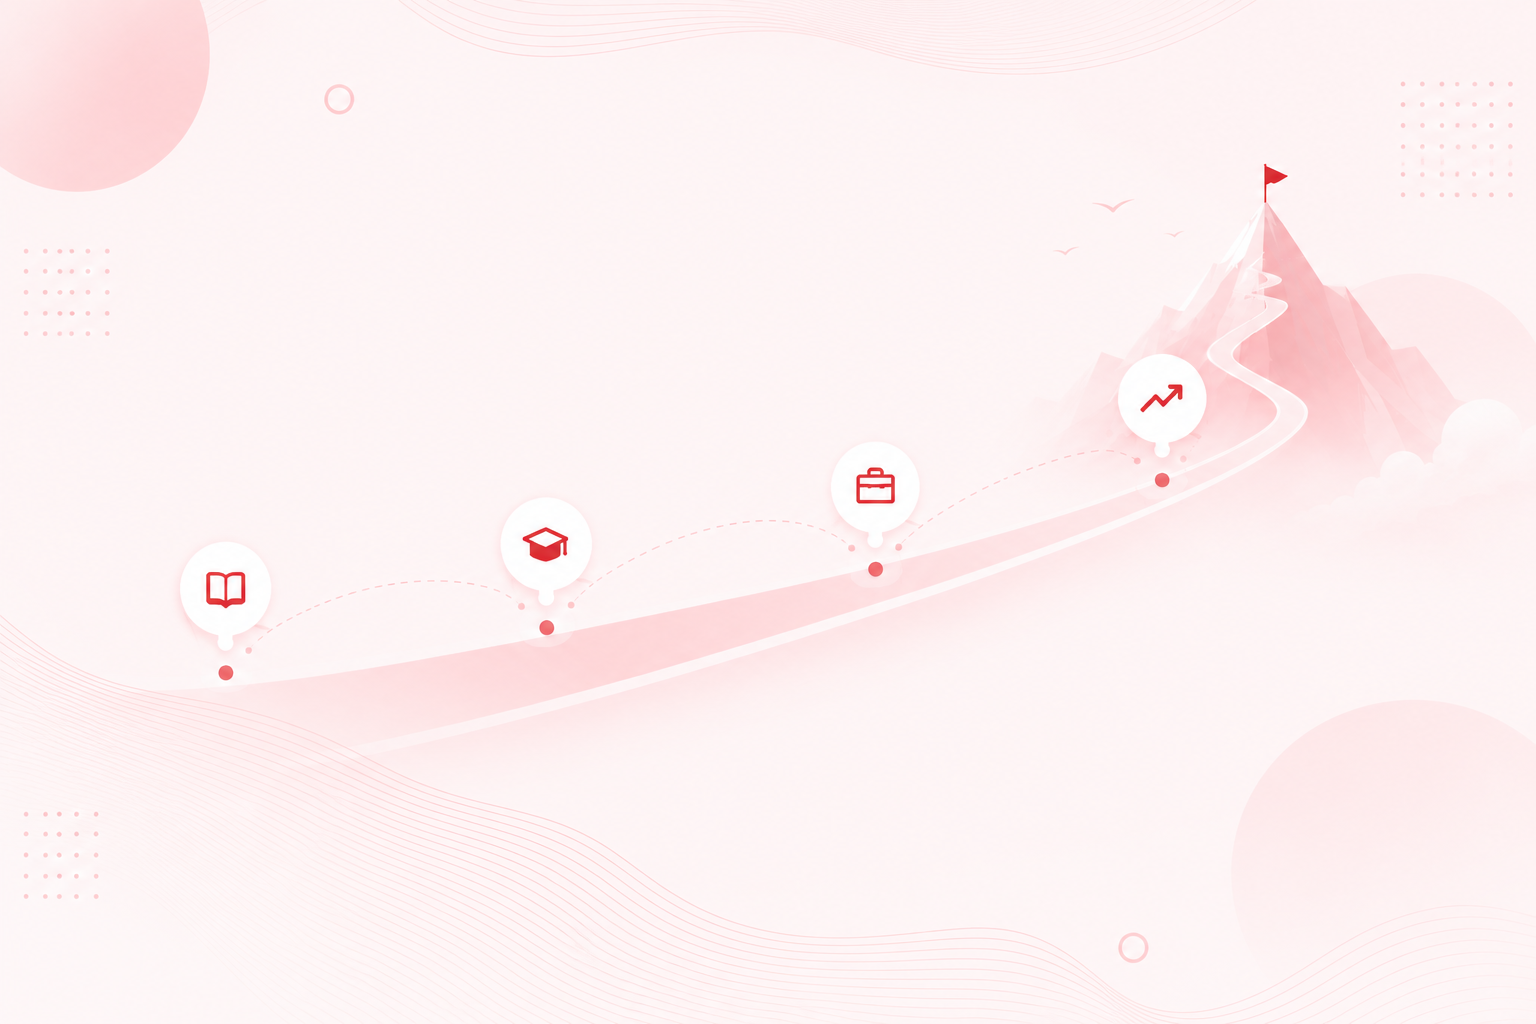
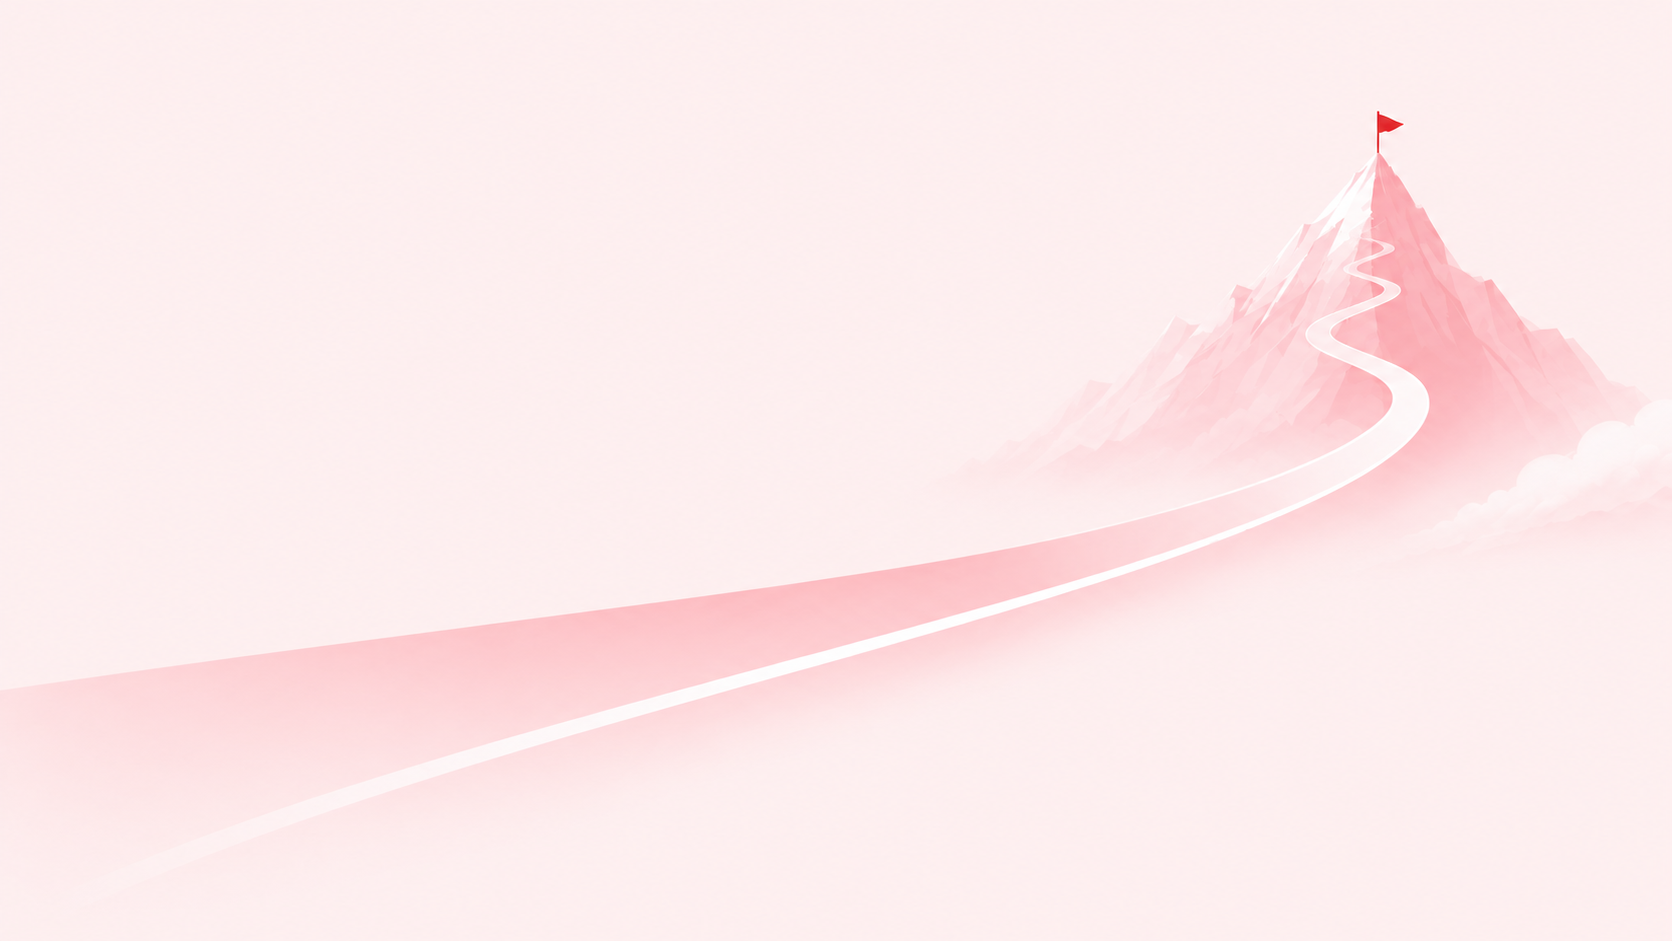
feat(CareerPathwayHub): implement MilestoneCard component and update layout

diff --git a/apps/web/components/blog/CareerPathwayHub.tsx b/apps/web/components/blog/CareerPathwayHub.tsx
@@ -6,135 +6,140 @@ import { BookOpen, GraduationCap, Briefcase, TrendingUp, ArrowRight } from 'luci
 const pathways = [
   {
     icon: BookOpen,
+    step: 'STEP 01',
     title: 'Study',
     description: 'Choose from diverse programs and build your academic foundation',
     details: ['Select University', 'Apply Programs', 'Enroll & Start'],
   },
   {
     icon: GraduationCap,
+    step: 'STEP 02',
     title: 'Graduate',
     description: 'Complete your degree and gain valuable experience',
     details: ['Complete Coursework', 'Internships', 'Final Project'],
   },
   {
     icon: Briefcase,
+    step: 'STEP 03',
     title: 'Job',
     description: 'Secure a position with leading companies',
     details: ['Job Search', 'Interview', 'Offer'],
   },
   {
     icon: TrendingUp,
+    step: 'STEP 04',
     title: 'Career Growth',
     description: 'Advance your career with promotions and new opportunities',
     details: ['Professional Dev', 'Leadership', 'Success'],
   },
 ]
 
+function MilestoneCard({ pathway, index }: { pathway: typeof pathways[0]; index: number }) {
+  const Icon = pathway.icon
+
+  return (
+    <motion.div
+      initial={{ opacity: 0, y: 24 }}
+      whileInView={{ opacity: 1, y: 0 }}
+      viewport={{ once: true }}
+      transition={{ delay: index * 0.1, duration: 0.5, ease: 'easeOut' }}
+      className="flex flex-col items-center"
+    >
+      {/* ICON */}
+      <div className="h-10 w-10 rounded-full bg-white shadow-[0_8px_20px_rgba(0,0,0,0.08)] flex items-center justify-center mb-4">
+        <Icon className="h-5 w-5 text-[#C41E3A]" strokeWidth={2} />
+      </div>
+
+      {/* CONNECTOR LINE */}
+      <div className="w-px h-5 bg-[#E5E7EB] mb-4" />
+
+      {/* CARD */}
+      <motion.div
+        whileHover={{ y: -6, scale: 1.02 }}
+        transition={{ duration: 0.2, ease: 'easeOut' }}
+        className="group w-full max-w-[240px]"
+      >
+        <div className="h-[320px] rounded-[24px] bg-white border border-[#F1F5F9] shadow-[0_10px_30px_rgba(15,23,42,0.06)] p-6 transition-shadow duration-300 group-hover:shadow-[0_20px_50px_rgba(196,30,58,0.12)] overflow-hidden flex flex-col">
+          {/* STEP BADGE */}
+          <div className="mb-3 inline-flex items-center rounded-full bg-[#FEECEF] px-3 py-1 self-start">
+            <span className="text-[11px] font-bold tracking-[0.12em] text-[#C41E3A]">
+              {pathway.step}
+            </span>
+          </div>
+
+          {/* TITLE */}
+          <h3 className="text-[20px] font-bold leading-tight tracking-tight text-[#0F172A] mb-2">
+            {pathway.title}
+          </h3>
+
+          {/* ACCENT LINE */}
+          <div className="w-10 h-1 rounded-full bg-[#C41E3A] mb-3" />
+
+          {/* DESCRIPTION */}
+          <p className="text-sm leading-6 text-[#64748B] mb-3">
+            {pathway.description}
+          </p>
+
+          {/* BULLET LIST */}
+          <div className="space-y-2 mt-auto">
+            {pathway.details.map((detail, i) => (
+              <div key={i} className="flex items-center gap-2">
+                <div className="w-1.5 h-1.5 rounded-full bg-[#C41E3A] flex-shrink-0" />
+                <span className="text-sm text-[#475569]">{detail}</span>
+              </div>
+            ))}
+          </div>
+        </div>
+      </motion.div>
+    </motion.div>
+  )
+}
+
 export function CareerPathwayHub() {
   return (
-    <section className="relative border-y border-[#E5E7EB] bg-[#FEF2F2] py-24 lg:py-32 overflow-hidden">
-      <div className="absolute inset-0">
+    <section className="relative border-y border-[#E5E7EB] bg-[#FEF2F2]">
+      {/* ROADMAP IMAGE - BACKGROUND ONLY */}
+      <div className="absolute inset-0 flex items-center justify-center overflow-hidden pointer-events-none">
         <img
           src="/images/career-pathway-bg.png"
-          alt="Career Pathway Background"
-          className="h-full w-full object-cover"
+          className="w-full h-full object-contain opacity-30"
+          alt=""
         />
       </div>
-      <div className="absolute inset-0 bg-white/40 backdrop-blur-[1px]" />
-      <div className="relative z-10 mx-auto max-w-7xl px-4 sm:px-6 lg:px-8">
+
+      <div className="relative z-10 mx-auto max-w-7xl px-4 sm:px-6 lg:px-8 pt-12 pb-16">
         {/* HEADER */}
         <motion.div
           initial={{ opacity: 0, y: 20 }}
           whileInView={{ opacity: 1, y: 0 }}
-          viewport={{ once: true, margin: '-100px' }}
-          className="mb-20 text-center"
+          viewport={{ once: true }}
+          className="mb-10 text-center"
         >
-          <h2 className="mb-4 text-4xl font-bold text-[#111827] lg:text-5xl">Career Pathway Hub</h2>
-          <p className="mx-auto max-w-2xl text-xl text-[#6B7280]">
+          <h2 className="text-5xl lg:text-6xl font-bold tracking-tight leading-none text-[#0F172A]">
+            Career <span className="text-[#C41E3A]">Pathway</span> Hub
+          </h2>
+          <p className="mt-4 text-lg text-[#64748B]">
             From student to career professional in four strategic steps
           </p>
         </motion.div>
 
-        {/* PATHWAY TIMELINE */}
-        <div className="relative">
-          {/* CONNECTION LINE */}
-          <div className="absolute left-0 right-0 top-24 hidden h-px bg-[#C41E3A] opacity-30 lg:block" />
-
-          <motion.div
-            initial={{ opacity: 0 }}
-            whileInView={{ opacity: 1 }}
-            viewport={{ once: true, margin: '-100px' }}
-            transition={{ staggerChildren: 0.2 }}
-            className="relative z-10 grid grid-cols-1 gap-8 md:grid-cols-2 lg:grid-cols-4"
-          >
-            {pathways.map((pathway, index) => {
-              const Icon = pathway.icon
-              return (
-                <motion.div
-                  key={index}
-                  initial={{ opacity: 0, y: 20 }}
-                  whileInView={{ opacity: 1, y: 0 }}
-                  viewport={{ once: true }}
-                  transition={{ delay: index * 0.1 }}
-                  whileHover={{ y: -4 }}
-                  className="relative"
-                >
-                  {/* STEP INDICATOR */}
-                  <div className="absolute -top-16 left-1/2 -translate-x-1/2 transform">
-                    <div className="flex h-16 w-16 items-center justify-center rounded-full bg-[#C41E3A] text-lg font-bold text-white shadow-[0_10px_30px_rgba(196,30,58,0.18)] transition-shadow">
-                      {index + 1}
-                    </div>
-                  </div>
-
-                  {/* CARD */}
-                  <div className="h-full rounded-xl border border-[#E5E7EB] bg-white p-8 pt-16 transition-all duration-300 hover:shadow-[0_10px_30px_rgba(0,0,0,0.06)]">
-                    <div className="mb-6 flex justify-center">
-                      <div className="flex h-16 w-16 items-center justify-center rounded-lg border border-[#E5E7EB] bg-[#FEF2F2]">
-                        <Icon className="h-8 w-8 text-[#C41E3A]" />
-                      </div>
-                    </div>
-
-                    <h3 className="mb-3 text-center text-2xl font-bold text-[#111827]">
-                      {pathway.title}
-                    </h3>
-                    <p className="mb-6 text-center text-base leading-relaxed text-[#6B7280]">
-                      {pathway.description}
-                    </p>
-
-                    {/* DETAILS */}
-                    <div className="space-y-2">
-                      {pathway.details.map((detail, i) => (
-                        <div key={i} className="flex items-center gap-3 text-sm text-[#6B7280]">
-                          <div className="h-2 w-2 rounded-full bg-[#C41E3A]" />
-                          <span>{detail}</span>
-                        </div>
-                      ))}
-                    </div>
-                  </div>
-
-                  {/* ARROW */}
-                  {index < pathways.length - 1 && (
-                    <div className="absolute -right-6 top-24 hidden items-center justify-center lg:flex">
-                      <ArrowRight className="h-6 w-6 text-[#C41E3A]" />
-                    </div>
-                  )}
-                </motion.div>
-              )
-            })}
-          </motion.div>
+        {/* CARDS GRID */}
+        <div className="grid grid-cols-1 sm:grid-cols-2 lg:grid-cols-4 gap-8 justify-items-center max-w-6xl mx-auto">
+          {pathways.map((pathway, index) => (
+            <MilestoneCard key={index} pathway={pathway} index={index} />
+          ))}
         </div>
 
         {/* CTA */}
         <motion.div
           initial={{ opacity: 0, y: 20 }}
           whileInView={{ opacity: 1, y: 0 }}
-          viewport={{ once: true, margin: '-50px' }}
-          transition={{ delay: 0.4 }}
-          className="mt-16 text-center"
+          viewport={{ once: true }}
+          className="mt-12 text-center"
         >
-          <button className="group inline-flex h-14 items-center gap-2 rounded-lg bg-[#C41E3A] px-8 font-semibold text-white transition-colors hover:bg-red-700">
-            View Career Resources{' '}
-            <ArrowRight className="h-5 w-5 transition-transform group-hover:translate-x-1" />
+          <button className="group inline-flex h-12 items-center gap-2 rounded-lg bg-[#C41E3A] px-6 text-sm font-semibold text-white transition-colors hover:bg-red-700">
+            View Career Resources
+            <ArrowRight className="w-4 h-4 transition-transform group-hover:translate-x-1" />
           </button>
         </motion.div>
       </div>